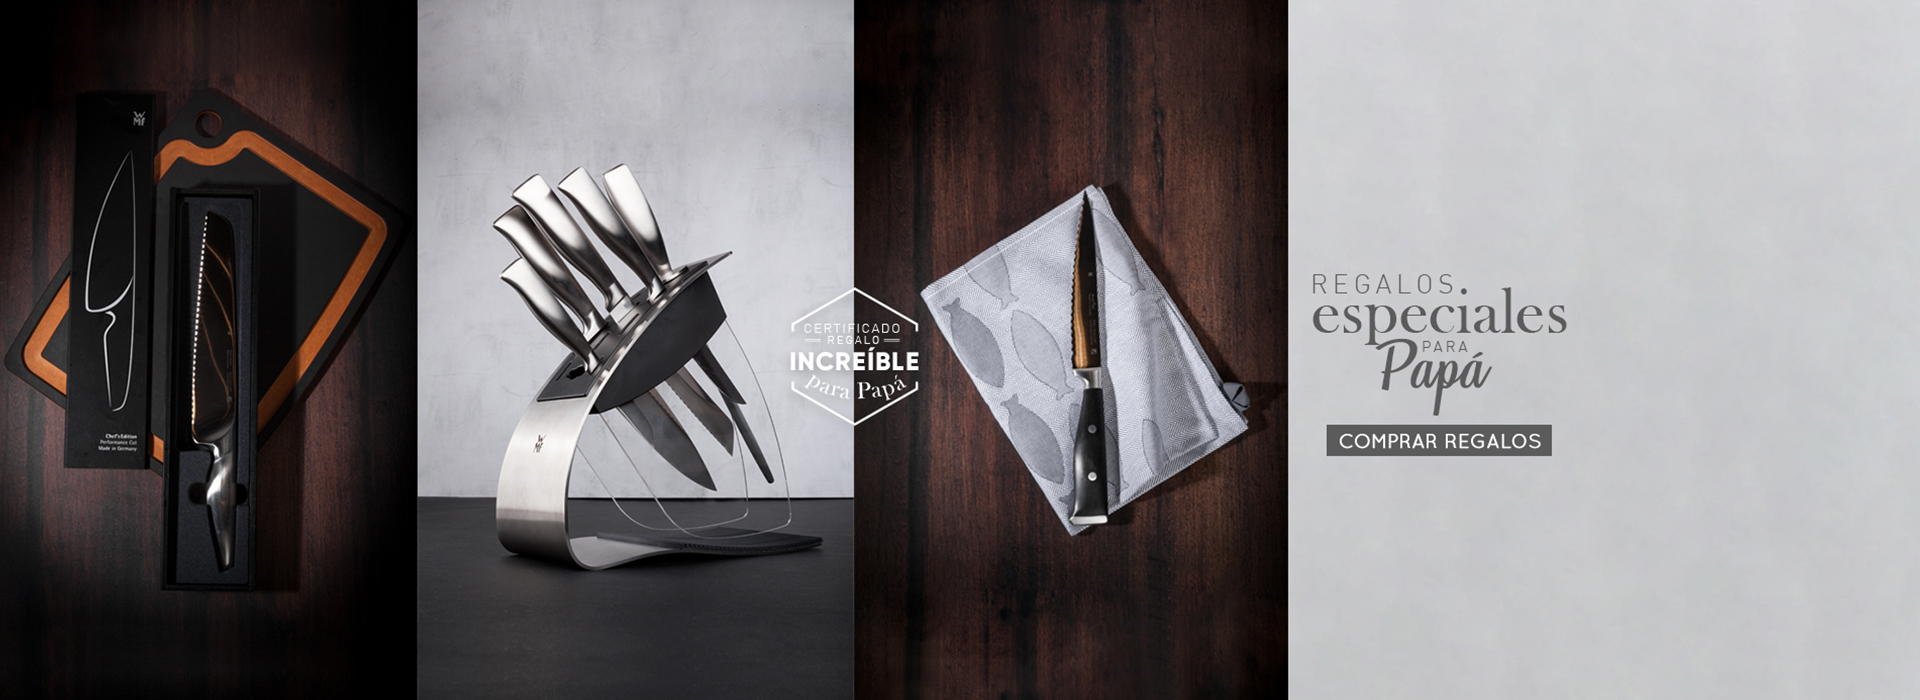
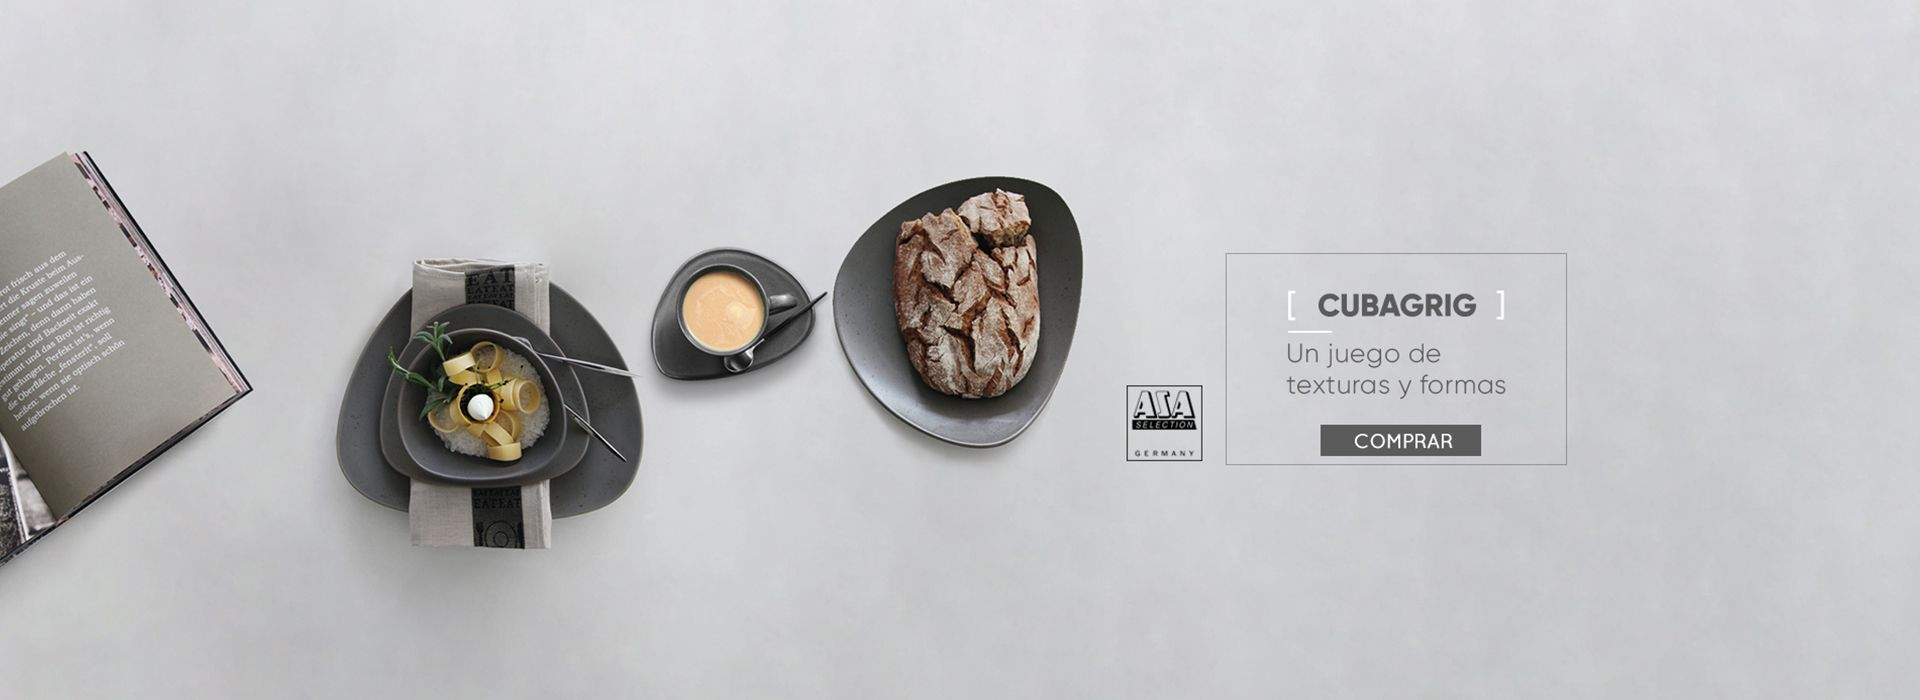
cambio de bannner

diff --git a/client/src/app/components/principal/slide2/slide-2.html b/client/src/app/components/principal/slide2/slide-2.html
@@ -10,7 +10,7 @@
         <span class="glyphicon glyphicon-menu-right"></span>
         <span class="sr-only">Next</span>
       </a>
-      <a href="javascript:void(0)" [routerLink]="['/categoria']" [queryParams]="{ orderBy: '-price', group: '025', subgroup: '151' }">
+      <a href="javascript:void(0)" [routerLink]="['/categoria']" [queryParams]="{ group: '024', collection: 'Cuba Grigio' }">
         <div class="principal-01">
           <div class="container">
             <div class="row">
@@ -27,7 +27,7 @@
   <div class="row" *ngIf="items && items.length > 0">
     <div class="col-sm-3 col-xs-6 text-center">
       <div class="recomendaciones">
-        <p class="name">CUCHILLOS PARA QUESO<br><b>BOSKA</b></p>
+        <p class="name">PLATO DE CARGA<br><b>CUBAGRIG</b></p>
         <a href="javascript:void(0)" [routerLink]="['/producto', items[0].shortitemcode]">
           <img src="https://img.matisses.co/{{items[0].itemcode}}/parrilla/{{items[0].itemcode}}_01.jpg" class="img-responsive cursor-pointer" alt="{{items[0].itemname}}">
         </a>
@@ -37,7 +37,7 @@
     </div>
     <div class="col-sm-3 col-xs-6 text-center" *ngIf="items && items.length >= 2">
       <div class="recomendaciones">
-        <p class="name">HIELERA CON PINZAS<br><b>EVA SOLO</b></p>
+        <p class="name">TAZA DE ESPRESSO<br><b>CUBAGRIG</b></p>
         <a href="javascript:void(0)" [routerLink]="['/producto', items[1].shortitemcode]">
           <img src="https://img.matisses.co/{{items[1].itemcode}}/parrilla/{{items[1].itemcode}}_01.jpg" class="img-responsive cursor-pointer" alt="{{items[1].itemname}}">
         </a>
@@ -47,16 +47,16 @@
     </div>
 
     <div class="col-sm-6 col-xs-12" *ngIf="items && items.length >= 3">
-      <div class="sub-banner text-center" [routerLink]="['/producto', items[2].shortitemcode]">
+      <div class="sub-banner text-center" [routerLink]="['/categoria']" [queryParams]="{ group: '024', collection: 'Cuba Crema' }">
         <a href="javascript:void(0)">
           <img src="assets/images/banner/slide-2/banner-02.jpg" class="img-responsive" alt="">
         </a>
       </div>
       <div class="row">
-        <a href="javascript:void(0)" [routerLink]="['/producto', items[2].shortitemcode]">
+        <a href="javascript:void(0)" [routerLink]="['/categoria']" [queryParams]="{ group: '024', collection: 'Cuba Crema' }">
           <div class="col-xs-12">
             <div class="sub-banner-footer">
-              <p><b>SILLA DE CINE EN PIEL </b>$ {{formatNumber(items[2].priceaftervat)}}</p>
+              <p><b>COLECCIÓN CUBA CREME DESDE </b>$ {{formatNumber(items[2].priceaftervat)}}</p>
               <button type="submit" class="ir-comprar" name="comprar-ya">Ir a comprar</button>
             </div>
           </div>

diff --git a/client/src/app/components/principal/slide2/slide-2.component.ts b/client/src/app/components/principal/slide2/slide-2.component.ts
@@ -26,13 +26,13 @@ export class Slide2Component implements OnInit {
 
   private inicializarItems() {
     this.items = new Array<Item>();
-    this._itemService.find('2270015').subscribe(
+    this._itemService.find('2220183').subscribe(
       response => {
         this.items.push(response.result[0]);
-        this._itemService.find('2240010').subscribe(
+        this._itemService.find('2220198').subscribe(
           response => {
             this.items.push(response.result[0]);
-            this._itemService.find('1760005').subscribe(
+            this._itemService.find('2220175').subscribe(
               response => {
                 this.items.push(response.result[0]);
               }, error => { console.error(); }

diff --git a/client/src/app/components/principal/home-principal.html b/client/src/app/components/principal/home-principal.html
@@ -17,10 +17,10 @@
         <!-- Wrapper for slides -->
         <div class="carousel-inner" role="listbox">
           <div class="item active">
-            <slide-5></slide-5>
+            <slide-2></slide-2>
           </div>
           <div class="item">
-            <slide-2></slide-2>
+            <slide-5></slide-5>
           </div>
           <div class="item">
             <slide-1></slide-1>
